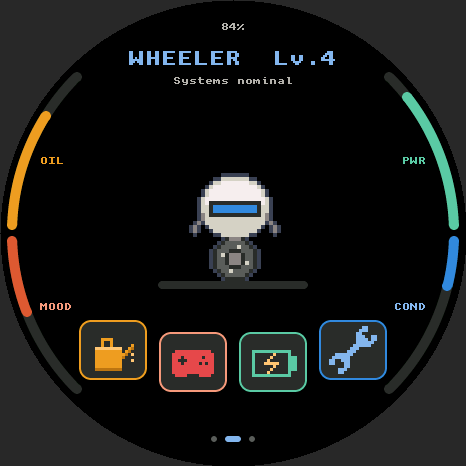
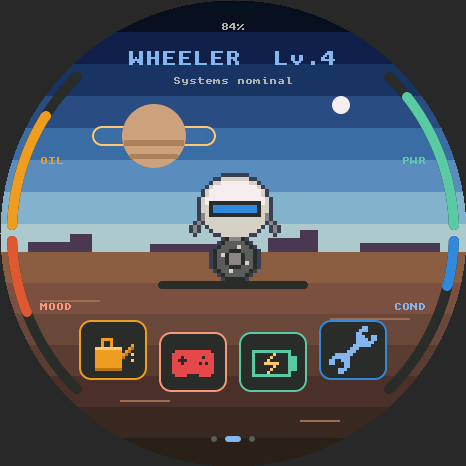
feat: planet background on the home screen and a volume slider
Claude-Session: https://claude.ai/code/session_01Dp7XvQD4PC6HjSrkPDcckm

diff --git a/firmware/stargotchi/src/ui/background.cpp b/firmware/stargotchi/src/ui/background.cpp
@@ -1,0 +1,114 @@
+// Home-page scenery: an alien planet horizon built from flat LVGL shapes
+// (cheap to redraw behind the animated bot). Day and night variants.
+#include "background.h"
+
+namespace sg {
+namespace ui {
+
+namespace {
+
+lv_obj_t *dayLayer = nullptr;
+lv_obj_t *nightLayer = nullptr;
+
+lv_obj_t *layer(lv_obj_t *parent) {
+  lv_obj_t *l = lv_obj_create(parent);
+  lv_obj_remove_style_all(l);
+  lv_obj_set_size(l, 466, 466);
+  lv_obj_set_pos(l, 0, 0);
+  lv_obj_clear_flag(l, LV_OBJ_FLAG_CLICKABLE | LV_OBJ_FLAG_SCROLLABLE);
+  return l;
+}
+
+lv_obj_t *box(lv_obj_t *parent, int x, int y, int w, int h, uint32_t color, int radius = 0) {
+  lv_obj_t *o = lv_obj_create(parent);
+  lv_obj_remove_style_all(o);
+  lv_obj_set_pos(o, x, y);
+  lv_obj_set_size(o, w, h);
+  lv_obj_set_style_bg_opa(o, LV_OPA_COVER, 0);
+  lv_obj_set_style_bg_color(o, lv_color_hex(color), 0);
+  lv_obj_set_style_radius(o, radius, 0);
+  lv_obj_clear_flag(o, LV_OBJ_FLAG_CLICKABLE | LV_OBJ_FLAG_SCROLLABLE);
+  return o;
+}
+
+void bands(lv_obj_t *parent, int y0, int y1, const uint32_t *colors, int n) {
+  const int h = (y1 - y0 + n - 1) / n;
+  for (int i = 0; i < n; i++) box(parent, 0, y0 + i * h, 466, h + 1, colors[i]);
+}
+
+constexpr int kHorizon = 252;
+
+// Mesa silhouettes along the horizon: {x, width, height}
+const int kMesas[][3] = {{28, 54, 10}, {70, 22, 18}, {150, 70, 8}, {268, 40, 14},
+                         {300, 18, 22}, {360, 80, 9}};
+
+void scenery(lv_obj_t *l, bool night) {
+  static const uint32_t daySky[] = {0x0B1026, 0x142048, 0x1E3466, 0x2B4E86, 0x3C6EA3,
+                                    0x5B8FB8, 0x86B3C9, 0xA9C8CF};
+  static const uint32_t nightSky[] = {0x010208, 0x03050F, 0x060A1A, 0x0A1026, 0x0F1733,
+                                      0x141E40, 0x1A264D, 0x22305A};
+  static const uint32_t dayGround[] = {0x8A5E44, 0x7A5240, 0x6B4A3A, 0x5A3E31, 0x4A3329,
+                                       0x3B2921, 0x2E211B};
+  static const uint32_t nightGround[] = {0x3A2A2A, 0x332424, 0x2B1F1F, 0x241A1A, 0x1D1515,
+                                         0x161010, 0x0F0B0B};
+  bands(l, 0, kHorizon, night ? nightSky : daySky, 8);
+  bands(l, kHorizon, 466, night ? nightGround : dayGround, 7);
+
+  if (night) {
+    // star field (fixed pattern)
+    for (int i = 0; i < 42; i++) {
+      const int x = (i * 97 + 31) % 430 + 18;
+      const int y = (i * 53 + 17) % 220 + 8;
+      const int s = (i % 7 == 0) ? 3 : 2;
+      box(l, x, y, s, s, i % 3 ? 0xB4B2A9 : 0xF1EFE8);
+    }
+  }
+
+  // ringed planet (upper left) and a small moon (upper right)
+  const uint32_t planet = night ? 0x5A4E66 : 0xC9A27A;
+  const uint32_t planetShade = night ? 0x433A4D : 0xA9805C;
+  // ring first so the planet body hides its middle (ring passes behind)
+  lv_obj_t *ring = box(l, 92, 126, 124, 20, planet, LV_RADIUS_CIRCLE);
+  lv_obj_set_style_bg_opa(ring, LV_OPA_TRANSP, 0);
+  lv_obj_set_style_border_color(ring, lv_color_hex(night ? 0x7F77DD : 0xFAC775), 0);
+  lv_obj_set_style_border_width(ring, 2, 0);
+  box(l, 122, 104, 64, 64, planet, LV_RADIUS_CIRCLE);
+  box(l, 124, 140, 60, 6, planetShade);  // cloud bands on the planet
+  box(l, 130, 154, 48, 5, planetShade);
+  box(l, 332, 96, 18, 18, night ? 0xD3D1C7 : 0xF1EFE8, LV_RADIUS_CIRCLE);
+
+  // horizon mesas and ground stripes
+  const uint32_t mesa = night ? 0x1B1424 : 0x4A3B52;
+  for (const auto &m : kMesas) box(l, m[0], kHorizon - m[2], m[1], m[2], mesa);
+  const uint32_t stripe = night ? 0x423030 : 0x9C6E50;
+  box(l, 40, 300, 60, 2, stripe);
+  box(l, 330, 318, 80, 2, stripe);
+  box(l, 120, 400, 50, 2, stripe);
+  box(l, 300, 420, 40, 2, stripe);
+}
+
+}  // namespace
+
+void bgBuild(lv_obj_t *parent) {
+  dayLayer = layer(parent);
+  scenery(dayLayer, false);
+  nightLayer = layer(parent);
+  scenery(nightLayer, true);
+  lv_obj_add_flag(nightLayer, LV_OBJ_FLAG_HIDDEN);
+}
+
+void bgSetNight(bool night) {
+  if (!dayLayer) return;
+  const bool shown = !lv_obj_has_flag(nightLayer, LV_OBJ_FLAG_HIDDEN);
+  if (shown == night) return;
+  if (night) {
+    lv_obj_clear_flag(nightLayer, LV_OBJ_FLAG_HIDDEN);
+    lv_obj_add_flag(dayLayer, LV_OBJ_FLAG_HIDDEN);
+  } else {
+    lv_obj_clear_flag(dayLayer, LV_OBJ_FLAG_HIDDEN);
+    lv_obj_add_flag(nightLayer, LV_OBJ_FLAG_HIDDEN);
+  }
+}
+
+}  // namespace ui
+}  // namespace sg

diff --git a/firmware/stargotchi/src/ui/setup_page.cpp b/firmware/stargotchi/src/ui/setup_page.cpp
@@ -51,8 +51,24 @@ void brightCb(lv_event_t *e) {
   emit(Action::Brightness, lv_slider_get_value(lv_event_get_target(e)));
 }
 
-void soundCb(lv_event_t *e) {
-  emit(Action::Sound, lv_obj_has_state(lv_event_get_target(e), LV_STATE_CHECKED) ? 1 : 0);
+void volumeCb(lv_event_t *e) {
+  emit(Action::Volume, lv_slider_get_value(lv_event_get_target(e)));
+}
+
+lv_obj_t *settingSlider(lv_obj_t *tile, const char *name, int y, int min, int max, int value,
+                        uint32_t color, lv_event_cb_t cb) {
+  lv_obj_t *l = theme::label(tile, name, theme::small(), theme::kMuted);
+  lv_obj_align(l, LV_ALIGN_TOP_MID, -100, y + 2);
+  lv_obj_t *slider = lv_slider_create(tile);
+  lv_obj_set_width(slider, 150);
+  lv_slider_set_range(slider, min, max);
+  lv_slider_set_value(slider, value, LV_ANIM_OFF);
+  lv_obj_set_style_bg_color(slider, lv_color_hex(color), LV_PART_INDICATOR);
+  lv_obj_set_style_bg_color(slider, lv_color_hex(color), LV_PART_KNOB);
+  lv_obj_align(slider, LV_ALIGN_TOP_MID, 30, y);
+  lv_obj_add_event_cb(slider, cb, LV_EVENT_RELEASED, nullptr);
+  lv_obj_clear_flag(slider, LV_OBJ_FLAG_SCROLL_CHAIN_HOR);  // dragging must not flip pages
+  return slider;
 }
 
 void msgboxCb(lv_event_t *e) {
@@ -103,25 +119,8 @@ void setupBuild(lv_obj_t *tile, const Settings &s) {
   lv_obj_t *setBtn = textButton(tile, "SET TIME", theme::kCond, 160, 222);
   lv_obj_add_event_cb(setBtn, setTimeCb, LV_EVENT_CLICKED, nullptr);
 
-  lv_obj_t *bl = theme::label(tile, "BRIGHT", theme::small(), theme::kMuted);
-  lv_obj_align(bl, LV_ALIGN_TOP_MID, -96, 288);
-  lv_obj_t *slider = lv_slider_create(tile);
-  lv_obj_set_width(slider, 150);
-  lv_slider_set_range(slider, 20, 255);
-  lv_slider_set_value(slider, s.brightness, LV_ANIM_OFF);
-  lv_obj_set_style_bg_color(slider, lv_color_hex(theme::kHolo), LV_PART_INDICATOR);
-  lv_obj_set_style_bg_color(slider, lv_color_hex(theme::kHolo), LV_PART_KNOB);
-  lv_obj_align(slider, LV_ALIGN_TOP_MID, 30, 290);
-  lv_obj_add_event_cb(slider, brightCb, LV_EVENT_RELEASED, nullptr);
-  lv_obj_clear_flag(slider, LV_OBJ_FLAG_SCROLL_CHAIN_HOR);  // dragging must not flip pages
-
-  lv_obj_t *sl = theme::label(tile, "SOUND", theme::small(), theme::kMuted);
-  lv_obj_align(sl, LV_ALIGN_TOP_MID, -40, 334);
-  lv_obj_t *sw = lv_switch_create(tile);
-  lv_obj_align(sw, LV_ALIGN_TOP_MID, 40, 326);
-  lv_obj_set_style_bg_color(sw, lv_color_hex(theme::kPower), LV_PART_INDICATOR | LV_STATE_CHECKED);
-  if (s.sound) lv_obj_add_state(sw, LV_STATE_CHECKED);
-  lv_obj_add_event_cb(sw, soundCb, LV_EVENT_VALUE_CHANGED, nullptr);
+  settingSlider(tile, "BRIGHT", 288, 20, 255, s.brightness, theme::kHolo, brightCb);
+  settingSlider(tile, "VOLUME", 330, 0, 100, s.volume, theme::kPower, volumeCb);
 
   lv_obj_t *resetBtn = textButton(tile, "RESET BOT", theme::kWarn, 140, 370);
   lv_obj_add_event_cb(resetBtn, resetCb, LV_EVENT_CLICKED, nullptr);

diff --git a/firmware/stargotchi/src/app.cpp b/firmware/stargotchi/src/app.cpp
@@ -150,10 +150,10 @@ void onAction(ui::Action a, uint32_t arg) {
       hal::nvsSetU8("bright", brightness);
       hal::displaySetBrightness(brightness);
       return;
-    case ui::Action::Sound:
-      hal::setSoundEnabled(arg != 0);
-      hal::nvsSetU8("sound", arg ? 1 : 0);
-      if (arg) hal::beep(660, 60);
+    case ui::Action::Volume:
+      hal::setVolume(static_cast<uint8_t>(arg));
+      hal::nvsSetU8("vol", static_cast<uint8_t>(arg));
+      hal::beep(660, 80);  // preview at the new volume (silent when 0)
       return;
     case ui::Action::Reset:
       pet = newPet(hal::rtcNow(), static_cast<uint8_t>(esp_random() % kLineCount));
@@ -182,8 +182,9 @@ void appSetup() {
 
   brightness = hal::nvsGetU8("bright", 200);
   if (brightness < 20) brightness = 20;
-  const bool sound = hal::nvsGetU8("sound", 1) != 0;
-  hal::setSoundEnabled(sound);
+  uint8_t volume = hal::nvsGetU8("vol", 255);
+  if (volume > 100) volume = hal::nvsGetU8("sound", 1) ? 70 : 0;  // first start / old setting
+  hal::setVolume(volume);
   hal::displaySetBrightness(brightness);
 
   clockValid = hal::rtcValid();
@@ -198,7 +199,7 @@ void appSetup() {
   }
   newLowStats(lowAlerts, pet);  // no alert beeps for stats that were already low
 
-  ui::build(onAction, ui::Settings{brightness, sound});
+  ui::build(onAction, ui::Settings{brightness, volume});
   hal::touchSetGate(touchGate);
   battery = hal::batteryPercent();
   charging = hal::isCharging();

diff --git a/firmware/stargotchi/src/hal/audio.cpp b/firmware/stargotchi/src/hal/audio.cpp
@@ -21,17 +21,20 @@ struct Tone { uint16_t hz, ms; };
 I2SClass i2s;
 QueueHandle_t queue = nullptr;
 volatile bool soundOn = true;
+es8311_handle_t codec = nullptr;
+uint8_t volumePct = 70;
 
 bool codecInit() {
   es8311_handle_t h = es8311_create(0, ES8311_ADDRRES_0);
   if (!h) return false;
+  codec = h;
   const es8311_clock_config_t clk = {
       .mclk_inverted = false, .sclk_inverted = false, .mclk_from_mclk_pin = true,
       .mclk_frequency = kRate * 256, .sample_frequency = kRate};
   if (es8311_init(h, &clk, ES8311_RESOLUTION_16, ES8311_RESOLUTION_16) != ESP_OK) return false;
   es8311_sample_frequency_config(h, clk.mclk_frequency, clk.sample_frequency);
   es8311_microphone_config(h, false);
-  es8311_voice_volume_set(h, 75, nullptr);
+  es8311_voice_volume_set(h, volumePct, nullptr);
   return true;
 }
 
@@ -90,7 +93,13 @@ void beep(uint16_t hz, uint16_t ms) {
   xQueueSend(queue, &t, 0);
 }
 
-void setSoundEnabled(bool on) { soundOn = on; }
+void setVolume(uint8_t percent) {
+  if (percent > 100) percent = 100;
+  soundOn = percent > 0;
+  volumePct = percent;
+  // Codec volume is roughly logarithmic; keep low settings audible.
+  if (codec && percent > 0) es8311_voice_volume_set(codec, 40 + percent * 55 / 100, nullptr);
+}
 
 }  // namespace hal
 }  // namespace sg

diff --git a/firmware/stargotchi/src/ui/home.cpp b/firmware/stargotchi/src/ui/home.cpp
@@ -4,6 +4,7 @@
 
 #include "../assets/bot_frames.h"
 #include "../assets/sprites.h"
+#include "background.h"
 #include "pages.h"
 #include "theme.h"
 
@@ -121,6 +122,7 @@ void flashFade(void *obj, int32_t v) {
 }  // namespace
 
 void homeBuild(lv_obj_t *tile) {
+  bgBuild(tile);
   arcs[0] = makeArc(tile, 182, 225, false, theme::kOil);   // OIL, upper left
   arcs[1] = makeArc(tile, 135, 178, true, theme::kMood);   // MOOD, lower left
   arcs[2] = makeArc(tile, 315, 358, true, theme::kPower);  // PWR, upper right
@@ -197,6 +199,7 @@ void homeRefresh(const Pet &p, uint32_t now, int battery, bool charging) {
   else snprintf(buf, sizeof buf, "%d%%%s", battery, charging ? "+" : "");
   setText(batteryLbl, buf);
   setVisible(moonImg, isNight(now));
+  bgSetNight(isNight(now));
 
   const bool nowAsleep = isAsleep(p, now) && !p.shutdown;
   if (nowAsleep != asleep || p.shutdown != shownShutdown) {

diff --git a/firmware/stargotchi/src/ui/ui.h b/firmware/stargotchi/src/ui/ui.h
@@ -11,12 +11,12 @@ enum class Action : uint8_t {
   Oil, Play, Dock, Fix, Reboot,
   SetTime,     // arg = minutes since midnight
   Brightness,  // arg = 20..255
-  Sound,       // arg = 0/1
+  Volume,      // arg = 0..100 (0 = muted)
   Reset,
 };
 using ActionHandler = void (*)(Action, uint32_t arg);
 
-struct Settings { uint8_t brightness; bool sound; };
+struct Settings { uint8_t brightness; uint8_t volume; };
 
 void build(ActionHandler handler, const Settings &settings);
 void refresh(const Pet &pet, uint32_t now, int battery, bool charging);

diff --git a/tools/sim/sim.cpp b/tools/sim/sim.cpp
@@ -60,7 +60,7 @@ int main() {
   p.stage = sg::Stage::Junior;
   p.line = 1;
   p.oil = 70; p.mood = 45; p.power = 85; p.cond = 30; p.xp = 340;
-  sg::ui::build([](sg::ui::Action, uint32_t) {}, {200, true});
+  sg::ui::build([](sg::ui::Action, uint32_t) {}, {200, 70});
   sg::ui::refresh(p, day0 + 3 * 86400 + 14 * 3600, 84, false);
   shot("home_day");
 

diff --git a/firmware/stargotchi/src/hal/hal.h b/firmware/stargotchi/src/hal/hal.h
@@ -31,7 +31,7 @@ bool isCharging();
 // Speaker (ES8311). Non-blocking: tones are queued and played by a task.
 bool audioBegin();
 void beep(uint16_t hz, uint16_t ms);
-void setSoundEnabled(bool on);
+void setVolume(uint8_t percent);  // 0 = muted, 1..100
 
 }  // namespace hal
 }  // namespace sg

diff --git a/firmware/stargotchi/src/ui/background.h b/firmware/stargotchi/src/ui/background.h
@@ -1,0 +1,12 @@
+#pragma once
+#include <lvgl.h>
+
+namespace sg {
+namespace ui {
+
+// Builds the planet scenery as the first children of the Home tile.
+void bgBuild(lv_obj_t *parent);
+void bgSetNight(bool night);
+
+}  // namespace ui
+}  // namespace sg

diff --git a/CHANGELOG.md b/CHANGELOG.md
@@ -5,7 +5,8 @@
 - Four stats with real-time decay, night sleep and charging dock
 - Emergency shutdown after 8 h with two empty stats, reboot keeps the stage
 - Tilt-controlled mini-game "Asteroid Run"
-- Stats and setup pages (clock, brightness, sound, reset)
+- Stats and setup pages (clock, brightness, volume, reset)
+- Planet scenery behind the bot (day and night)
 - Screen dims after 30 s and turns off after 60 s
 - Save survives power loss and web-installer updates
 - Browser installer on GitHub Pages

diff --git a/docs/makerworld.md b/docs/makerworld.md
@@ -34,7 +34,7 @@ shutdown.
 
 **Controls**
 - Home: tap the icons (oil can, gamepad, dock, wrench)
-- Swipe right: stats · swipe left: setup (clock, brightness, sound, reset)
+- Swipe right: stats · swipe left: setup (clock, brightness, volume, reset)
 - Mini-game: tilt the device to dodge asteroids
 - Night (22:00–07:00): your bot sleeps on its own
 
